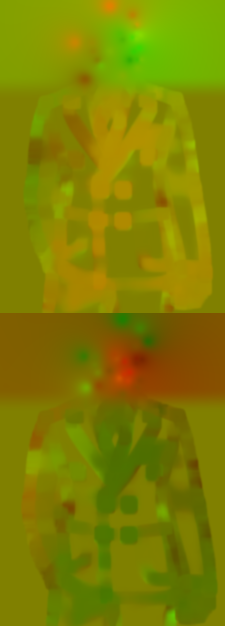
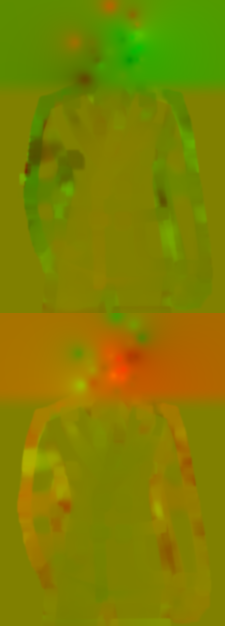
fix: register the gaze photo's body to the original so the turn doesn't shift the figure

diff --git a/scripts/bake-gaze.py b/scripts/bake-gaze.py
@@ -38,6 +38,26 @@ def place_gaze(src):
     pad = Image.new('RGBA', (W + 120, H), (0, 0, 0, 0)); pad.alpha_composite(g, (OX + 60, 0))
     return pad.crop((60, 0, 60 + W, H))
 
+def register(old, new):
+    """The gaze photo was shot a little differently (a bit wider, a bit lower), so scale and shift alone leave the body
+    sliding during the turn. Fit an affine to the suit (rows under the chin) and warp the gaze photo onto it.
+    Returns the registered photo and the 2x3 matrix W (old-space point -> placed-photo point)."""
+    def gray(im):
+        a = np.asarray(im, np.float32)
+        g = cv2.cvtColor(np.clip(a[..., :3] * (a[..., 3:] / 255.), 0, 255).astype(np.uint8), cv2.COLOR_RGB2GRAY)
+        return cv2.GaussianBlur(g, (0, 0), 2).astype(np.float32)
+    ao, an = (np.asarray(i)[..., 3] for i in (old, new))
+    mask = np.zeros((H, W), np.uint8)
+    mask[470:] = ((ao[470:] > 200) & (an[470:] > 200)) * 255
+    mask = cv2.erode(mask, np.ones((15, 15), np.uint8))
+    M = np.eye(2, 3, dtype=np.float32)
+    _, M = cv2.findTransformECC(gray(old), gray(new), M, cv2.MOTION_AFFINE,
+                                (cv2.TERM_CRITERIA_EPS | cv2.TERM_CRITERIA_COUNT, 300, 1e-6), mask, 5)
+    a = np.asarray(new, np.float32) / 255.; a[..., :3] *= a[..., 3:]                 # premultiplied, so edges stay clean
+    a = cv2.warpAffine(a, M, (W, H), flags=cv2.INTER_LINEAR | cv2.WARP_INVERSE_MAP)
+    a[..., :3] = a[..., :3] / np.maximum(a[..., 3:], 1e-4)
+    return Image.fromarray(np.clip(a * 255 + .5, 0, 255).astype(np.uint8), 'RGBA'), M
+
 def idw(pts, shape, r0=230., p=2.0):
     """smooth displacement field from (position, displacement) pairs; fades to zero far from every landmark"""
     yy, xx = np.mgrid[0:shape[0], 0:shape[1]].astype(np.float32)
@@ -48,7 +68,8 @@ def idw(pts, shape, r0=230., p=2.0):
     return num / den[..., None]
 
 def bake(gaze_path, preview=None):
-    old = load(OLD); new = place_gaze(load(gaze_path))
+    old = load(OLD); new, M = register(old, place_gaze(load(gaze_path)))
+    Mi = cv2.invertAffineTransform(M)                                            # placed-photo point -> registered point
     def flat(im):
         a = np.asarray(im, np.float32); return a[..., :3] * (a[..., 3:] / 255.)
     go, gn = (cv2.cvtColor(np.clip(flat(i), 0, 255).astype(np.uint8), cv2.COLOR_RGB2GRAY) for i in (old, new))
@@ -60,7 +81,7 @@ def bake(gaze_path, preview=None):
         body = cv2.calcOpticalFlowFarneback(a, b, None, .5, 6, 45, 6, 7, 1.5, 0) * wb[..., None]
         pts = []
         for (ox, oy), (gx, gy) in HEAD:
-            ox2, oy2 = gx * S + OX, gy * S
+            ox2, oy2 = Mi @ np.array([gx * S + OX, gy * S, 1.], np.float32)
             pts.append(((ox, oy), (ox2 - ox, oy2 - oy)) if fwd else ((ox2, oy2), (ox - ox2, oy - oy2)))
         fields.append(cv2.GaussianBlur(body + idw(pts, (H, W)) * (1 - wb)[..., None], (0, 0), 3))
     small = [cv2.resize(f, (W // 4, H // 4), interpolation=cv2.INTER_AREA) for f in fields]
